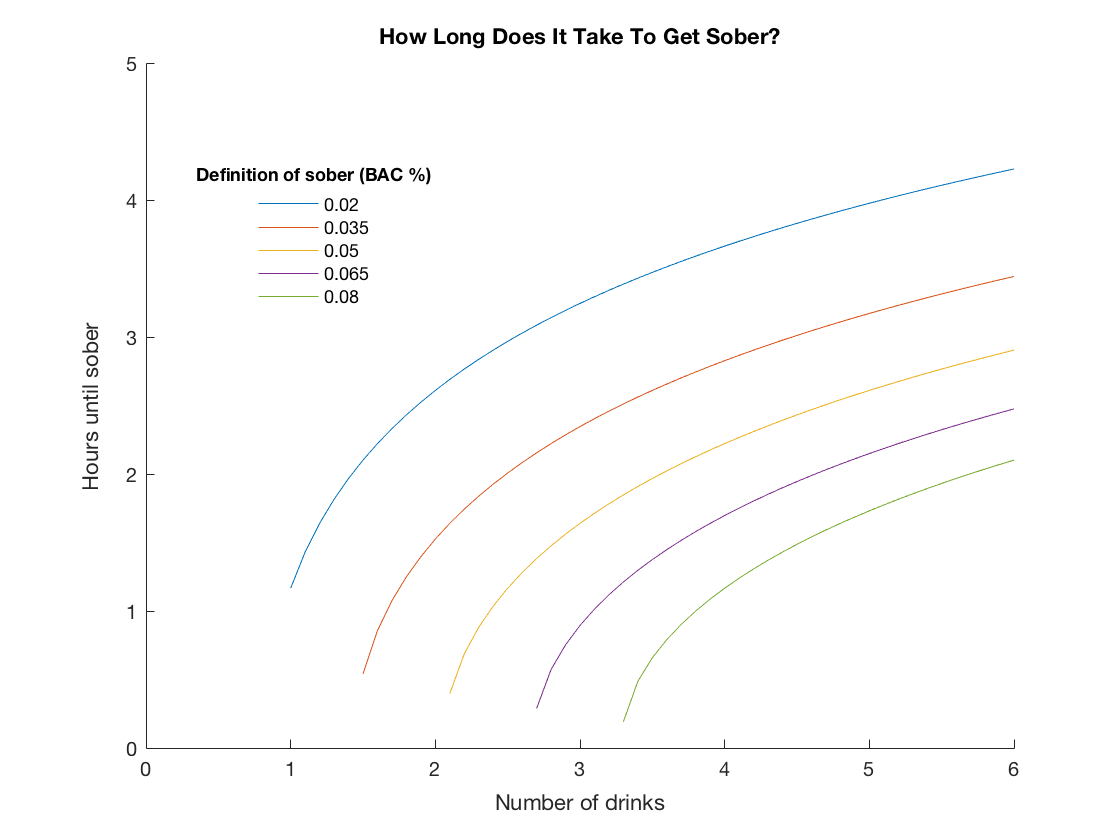
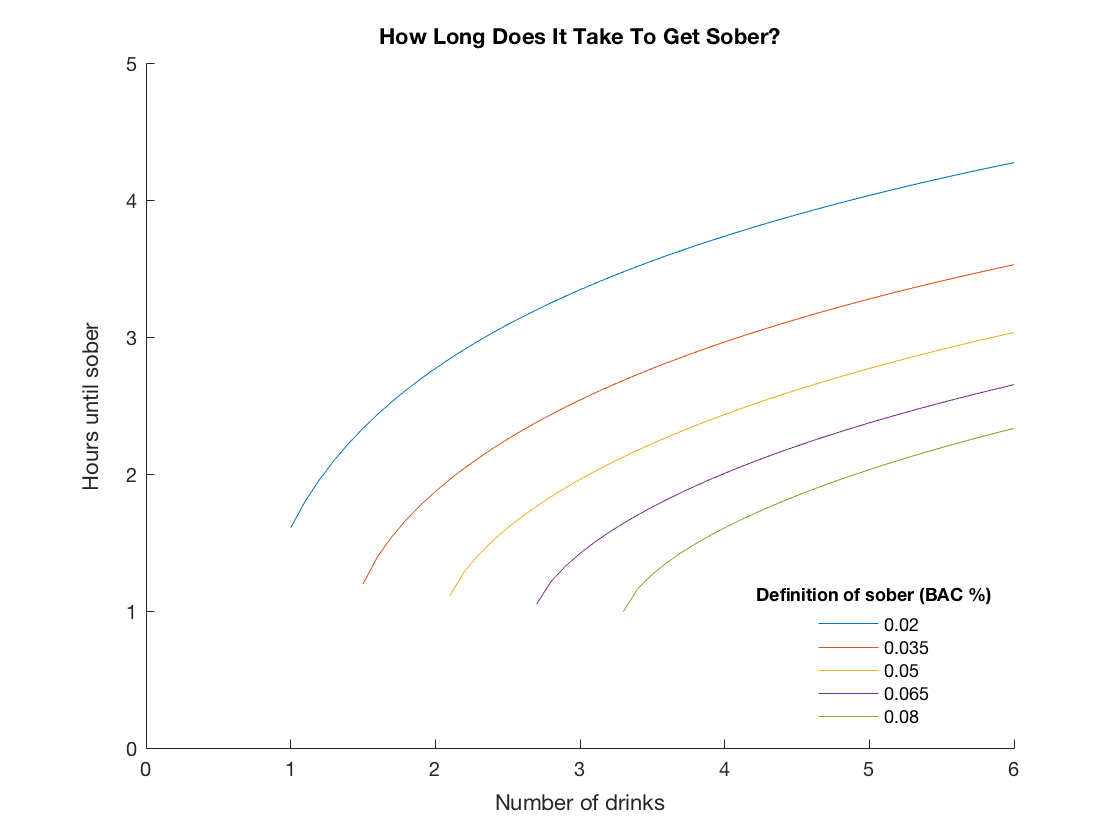
Changes during auditorium session.

diff --git a/SampleCode/Class20-StatisticsOfInterest/sweep_S0_timetillsober2.m b/SampleCode/Class20-StatisticsOfInterest/sweep_S0_timetillsober2.m
@@ -1,5 +1,6 @@
-% Full 2D sweep of initial concentration and threshold BAC level; contour
-% plot of the time until sober.
+% Sweep the initial concentration of alcohol (S0) and the threshold BAC
+% level, then plot S0 (converted to number of drinks) versus the time until
+% the BAC drops below the threshold.
 
 % Fixed parameters.
 d = 0;           % drinking rate (g / l  hour)
@@ -9,40 +10,47 @@ k_e = 0.8;       % rate constant for elimination of alcohol from the
                  %     lean body mass (1 / hour)
                  
 % Set up our sweep variables.
-S0s = 0.5:0.1:3;   % initial concentration in the stomach (g / l)
+S0s = 0.5:0.05:3;   % initial concentration in the stomach (g / l)
                     % (0.5 =~ 1 drink)
-thresholds = 0.2:0.025:0.8;   % threshold BAC (g / l)
+thresholds = 0.2:0.15:0.8;   % threshold BAC (g / l)
 
-% Convert our input variables to more intuitive units
-drinks = S0s / 0.5;   % initial concentration (g / l) to number of drinks
-threshPcts = thresholds / 10;  % lean body mass conc. (g / l) to BAC %
+% Convert our input variable to more intuitive units
+drinks = S0s / 0.5;  % initial concentration (g / l) to number of drinks
 
-% Set up our result matrix.
-numS0s = length(S0s);
-numThresholds = length(thresholds);
-durations = zeros(numThresholds, numS0s);
+% Set up our result variables.
+N = length(S0s);
+durations = zeros(1, N);
 
-% Now we do the sweeps and store the result in a matrix ...
-for i = 1:numThresholds
-    for j = 1:numS0s
-        durations(i, j) = find_time_until_sober(S0s(j), d, k_a, k_e, ...
-            thresholds(i));
+% Now we do the sweeps, and plot at the same time ...
+hold on
+for threshold = thresholds
+    for j = 1:N
+        durations(j) = find_time_until_sober(S0s(j), d, k_a, k_e, ...
+            threshold);
     end
+    plot(drinks, durations, 'DisplayName', num2str(threshold / 10));
+        % divide by 10 to convert lean body mass conc. (g / l) to BAC %
 end
 
-% Here we create a contour plot with a color bar ...
-contourf(drinks, threshPcts, durations);
-cb = colorbar;
-title(cb, 'Hours');
-
 % Finally, let's create some labels (and fine-tune their positions) ...
-title('How Long Does It Take To Get Sober?');
-xlabel('Number of drinks');
-ylabel('Definition of sober (BAC %)');
+t = title('How Long Does It Take To Get Sober?');
+t.Position = [3 5.1 0];
+xl = xlabel('Number of drinks');
+xl.Position = [3 -0.3 0];
+yl = ylabel('Hours until sober');
+yl.Position = [-0.3 2.5 0];
 
 % Let's tune up the axes to put zero on both of them ...
 ax = gca;  % try "help gca" for an explanation
-ax.XLim = [1 6];
-ax.XTick = 1:6;
-ax.YLim = [0.02 0.08];
-ax.YTick = 0.02:0.02:0.08;
+ax.XLim = [0 6];
+ax.XTick = 0:6;
+ax.YLim = [0 5];
+ax.YTick = 0:5;
+
+% And make a nice legend, too.
+l = legend('show');
+title(l, 'Definition of sober (BAC %)')
+l.Orientation = 'vertical';
+%l.Position = [0.28 0.8 0 0];
+l.Position = [0.78 0.22 0 0];
+legend('boxoff');

diff --git a/SampleCode/Class20-StatisticsOfInterest/find_time_until_sober.m b/SampleCode/Class20-StatisticsOfInterest/find_time_until_sober.m
@@ -21,10 +21,11 @@ function res = find_time_until_sober(S0, d, k_a, k_e, threshold)
     % Simulating the model is still a one-liner.
     [~, ~, te] = ode45(dYdt, timeSpan, Y0, options);
 
-    % If two events occurred, return the time difference between them.
-    % Otherwise return NaN to indicate that we don't have a duration.
-    if (length(te) == 2)
-        res = te(2) - te(1);
+    % If an event occurred, return the time of the event. Otherwise return
+    % NaN to indicate either that the subject didn't get sober within the
+    % time window, or didn't get drunk enough in the first place.
+    if (length(te) == 1)
+        res = te;
     else
         res = NaN;
     end
@@ -34,16 +35,15 @@ function res = find_time_until_sober(S0, d, k_a, k_e, threshold)
     % (See Cat Book 11.1 and the MATLAB documentation for odeset.)
     function [value, isterminal, direction] = events(~, Y)
         
-        % This time the value we are interested in is the difference
-        % between the current BAC (stock 2) and the given threshold.
-        diff = Y(2) - threshold;
-        value = [diff diff]; % we want two events so we need this twice
+        % The value we are interested in is the difference between the
+        % current BAC (stock 2) and the given threshold.
+        value = Y(2) - threshold;
 
-        % The first event we want is when we cross the threshold going up.
-        % The second event is when we cross it going down.
-        direction = [1 -1];
+        % We are only interested in events in which we cross the threshold
+        % on a downward slope (the negative direction).
+        direction = -1;
         
-        % Stop the integration after the second event.
-        isterminal = [0 1];
+        % Stop the integration after the event.
+        isterminal = 1;
     end
 end

diff --git a/SampleCode/Class20-StatisticsOfInterest/sweep_S0_timetillsober3.m b/SampleCode/Class20-StatisticsOfInterest/sweep_S0_timetillsober3.m
@@ -1,0 +1,48 @@
+% Full 2D sweep of initial concentration and threshold BAC level; contour
+% plot of the time until sober.
+
+% Fixed parameters.
+d = 0;           % drinking rate (g / l  hour)
+k_a = 1.5;       % rate constant for absorption of alcohol from the
+                 %     stomach to the lean body mass (1 / hour)
+k_e = 0.8;       % rate constant for elimination of alcohol from the
+                 %     lean body mass (1 / hour)
+                 
+% Set up our sweep variables.
+S0s = 0.5:0.1:3;   % initial concentration in the stomach (g / l)
+                    % (0.5 =~ 1 drink)
+thresholds = 0.2:0.025:0.8;   % threshold BAC (g / l)
+
+% Convert our input variables to more intuitive units
+drinks = S0s / 0.5;   % initial concentration (g / l) to number of drinks
+threshPcts = thresholds / 10;  % lean body mass conc. (g / l) to BAC %
+
+% Set up our result matrix.
+numS0s = length(S0s);
+numThresholds = length(thresholds);
+durations = zeros(numThresholds, numS0s);
+
+% Now we do the sweeps and store the result in a matrix ...
+for i = 1:numThresholds
+    for j = 1:numS0s
+        durations(i, j) = find_time_until_sober(S0s(j), d, k_a, k_e, ...
+            thresholds(i));
+    end
+end
+
+% Here we create a contour plot with a color bar ...
+contourf(drinks, threshPcts, durations);
+cb = colorbar;
+title(cb, 'Hours');
+
+% Finally, let's create some labels (and fine-tune their positions) ...
+title('How Long Does It Take To Get Sober?');
+xlabel('Number of drinks');
+ylabel('Definition of sober (BAC %)');
+
+% Let's tune up the axes to put zero on both of them ...
+ax = gca;  % try "help gca" for an explanation
+ax.XLim = [1 6];
+ax.XTick = 1:6;
+ax.YLim = [0.02 0.08];
+ax.YTick = 0.02:0.02:0.08;

diff --git a/SampleCode/Class20-StatisticsOfInterest/sweep_S0_timetillsober.m b/SampleCode/Class20-StatisticsOfInterest/sweep_S0_timetillsober.m
@@ -1,6 +1,5 @@
-% Sweep the initial concentration of alcohol (S0) and the threshold BAC
-% level, then plot S0 (converted to number of drinks) versus the time until
-% the BAC drops below the threshold.
+% Plot the time until BAC drops below a threshold as a function of the
+% number of initial drinks.
 
 % Fixed parameters.
 d = 0;           % drinking rate (g / l  hour)
@@ -12,7 +11,7 @@ k_e = 0.8;       % rate constant for elimination of alcohol from the
 % Set up our sweep variables.
 S0s = 0.5:0.05:3;   % initial concentration in the stomach (g / l)
                     % (0.5 =~ 1 drink)
-thresholds = 0.2:0.15:0.8;   % threshold BAC (g / l)
+threshold = 0.5;    % threshold BAC (g / l)
 
 % Convert our input variable to more intuitive units
 drinks = S0s / 0.5;  % initial concentration (g / l) to number of drinks
@@ -21,16 +20,13 @@ drinks = S0s / 0.5;  % initial concentration (g / l) to number of drinks
 N = length(S0s);
 durations = zeros(1, N);
 
-% Now we do the sweeps, and plot at the same time ...
-hold on
-for threshold = thresholds
-    for j = 1:N
-        durations(j) = find_time_until_sober(S0s(j), d, k_a, k_e, ...
-            threshold);
-    end
-    plot(drinks, durations, 'DisplayName', num2str(threshold / 10));
-        % divide by 10 to convert lean body mass conc. (g / l) to BAC %
+% Now we do the sweep, then plot ...
+for j = 1:N
+    durations(j) = find_time_until_sober(S0s(j), d, k_a, k_e, ...
+        threshold);
 end
+plot(drinks, durations, 'DisplayName', num2str(threshold / 10));
+    % divide by 10 to convert lean body mass conc. (g / l) to BAC %
 
 % Finally, let's create some labels (and fine-tune their positions) ...
 t = title('How Long Does It Take To Get Sober?');

diff --git a/SampleCode/Class20-StatisticsOfInterest/plot_one_bac.m b/SampleCode/Class20-StatisticsOfInterest/plot_one_bac.m
@@ -1,0 +1,25 @@
+% Plot one time series of BAC.
+
+% Fixed parameters.
+d = 0;           % drinking rate (g / l  hour)
+k_a = 1.5;       % rate constant for absorption of alcohol from the
+                 %     stomach to the lean body mass (1 / hour)
+k_e = 0.8;       % rate constant for elimination of alcohol from the
+                 %     lean body mass (1 / hour)
+
+S0 = 1.0;        % initial concentration in the stomach (g / l)
+
+[t, Y] = simulate_alcohol_ode45(S0, d, k_a, k_e);    
+plot(t, Y);
+
+% Finally, let's label the axes ...
+title('Time Series of Alcohol Concentration');
+xlabel('Time (hours)');
+ylabel('Concentration (grams / liter)');
+
+% And make a nice legend ...
+legend('Stomach', 'Lean body mass');
+%title(l, 'Initial consumption (grams / liter)')
+%l.Orientation = 'vertical';
+%l.Position = [0.7 0.4 0 0];
+%legend('boxoff');
